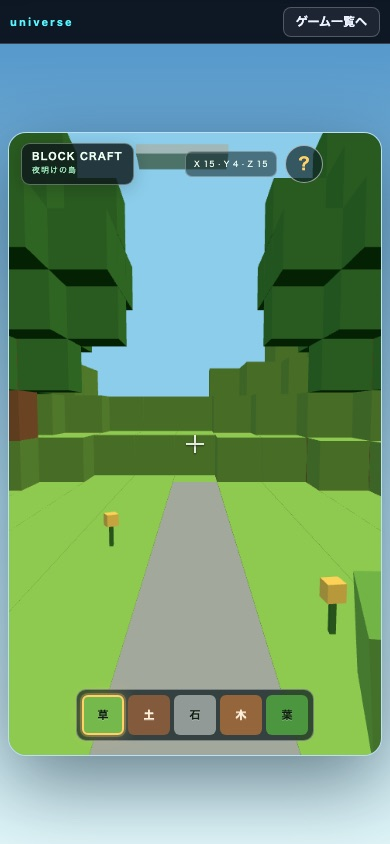
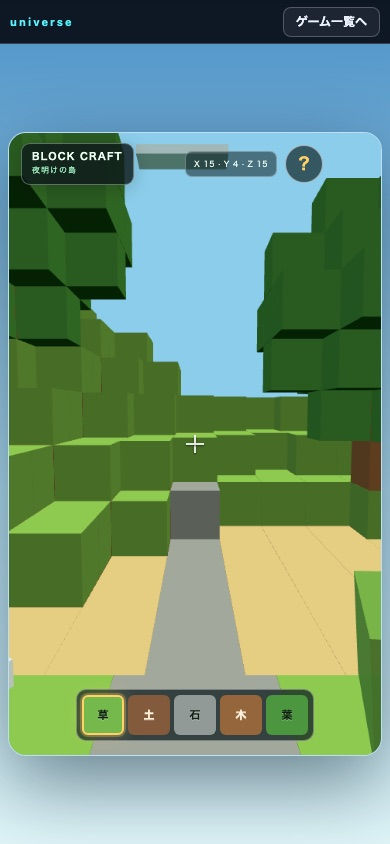
block-craft: 砂浜生成と開始クリックを修正
低地に砂を生成して説明と実装を一致させ、砂の存在をテスト。開始ボタンのクリックがシードとして渡らないよう正規化し、開始処理を次フレームへ遅延。未使用コードを削除し、奈落復帰の説明を実装に合わせた。

Changed region(s): [[0.0, 0.154, 0.9846, 0.8318], [0.0, 0.1848, 0.1231, 0.2464]]

diff --git a/projects/_labs/block-craft/game.js b/projects/_labs/block-craft/game.js
@@ -34,18 +34,10 @@
     }
   }
 
-  function showTitle() {
-    mode = 'title'; game = null;
-    setScreen('screen-title');
-    if (els.hud) els.hud.classList.add('hidden');
-    if (els.crosshair) els.crosshair.classList.add('hidden');
-    if (els.hotbar) els.hotbar.classList.add('hidden');
-    if (worldGroup) clearWorld();
-    invalidateHud();
-  }
-
   function startGame(seed) {
-    game = E.createGame({ seed: seed == null ? 20261104 : seed });
+    seed = Number(seed);
+    if (!isFinite(seed) || seed <= 0) seed = 20261104;
+    game = E.createGame({ seed: seed });
     mode = 'play';
     pointer = null; joy.id = null;
     autoStep = 0;
@@ -71,10 +63,6 @@
 
   function invalidateHud() { lastHud = ''; }
 
-  function slotColor(index) {
-    var info = E.BLOCK_INFO[E.HOTBAR[index]];
-    return '#' + ('000000' + info.color.toString(16)).slice(-6);
-  }
   function syncHud() {
     if (!game) return;
     var st = E.getState(game);
@@ -366,10 +354,9 @@
     els.screenTitle = $('screen-title'); els.screenHelp = $('screen-help');
     els.slots = document.querySelectorAll ? document.querySelectorAll('.slot') : [];
     els.hotbar = $('hotbar'); els.joystick = $('joystick'); els.joyKnob = $('joy-knob');
-    els.sound = null;
     makeRenderer();
     var start = $('btn-start'), help = $('btn-help'), close = $('btn-help-close');
-    if (start) start.addEventListener('click', startGame);
+    if (start) start.addEventListener('click', function () { setTimeout(function () { startGame(); }, 0); });
     if (help) help.addEventListener('click', showHelp);
     if (close) close.addEventListener('click', closeHelp);
     for (var i = 0; i < els.slots.length; i++) {

diff --git a/projects/_labs/block-craft/engine.js b/projects/_labs/block-craft/engine.js
@@ -47,7 +47,8 @@
     for (x = 0; x < SX; x++) {
       for (z = 0; z < SZ; z++) {
         var h = 5 + Math.floor(2.1 * Math.sin(x * 0.34 + seed * 0.07) + 1.7 * Math.cos(z * 0.29) + 1.0 * Math.sin((x + z) * 0.13));
-        h = clamp(h, 3, SY - 5);
+        if (Math.abs(x - 15) <= 2 && Math.abs(z - 15) <= 2) h = Math.max(h, 3);
+        h = clamp(h, 2, SY - 5);
         heights[x + z * SX] = h;
         for (y = 0; y <= h; y++) {
           var type;
@@ -80,7 +81,7 @@
       if (pathTop >= 0 && pathTop < SY - 1) setBlock({ blocks: blocks }, 15, pathTop, z, BLOCKS.STONE);
     }
     var decor = [];
-    var spots = [[12, 12], [16, 12], [11, 14], [19, 13], [14, 10], [18, 10], [10, 10], [20, 16], [13, 16], [17, 15], [9, 15], [21, 14]];
+    var spots = [[12, 12], [16, 12], [11, 14], [19, 13], [14, 10], [18, 10], [10, 10], [20, 16], [13, 16], [17, 15], [9, 15], [21, 14], [13, 14], [17, 14], [14, 13], [16, 13]];
     for (var d = 0; d < spots.length; d++) {
       var dx = spots[d][0], dz = spots[d][1];
       var dy = surfaceY({ blocks: blocks }, dx, dz);

diff --git a/projects/_labs/block-craft/test-engine.js b/projects/_labs/block-craft/test-engine.js
@@ -16,11 +16,15 @@ assert(E.HOTBAR.length === 5, 'hotbar should have five blocks');
 assert(g.position.y > 0 && g.position.y < E.WORLD.y, 'spawn height is invalid');
 assert(E.getBlock(g.world, Math.floor(g.position.x), Math.floor(g.position.y) - 1, Math.floor(g.position.z)) !== 0, 'spawn should be on solid ground');
 
-var found = 0;
+var found = 0, sandCount = 0;
 for (var x = 0; x < E.WORLD.x; x++) for (var z = 0; z < E.WORLD.z; z++) {
   if (E.getBlock(g.world, x, 0, z) === E.BLOCKS.STONE) found++;
+  for (var sy = E.WORLD.y - 1; sy >= 0; sy--) {
+    if (E.getBlock(g.world, x, sy, z) === E.BLOCKS.SAND) { sandCount++; break; }
+  }
 }
 assert(found > 0, 'world should have stone below the surface');
+assert(sandCount > 0, 'world should have at least one sand column');
 
 var sand = 0;
 for (x = 0; x < E.WORLD.x; x++) for (var sy = 0; sy < E.WORLD.y; sy++) for (var sz = 0; sz < E.WORLD.z; sz++) {

diff --git a/projects/_labs/block-craft/test-smoke.js b/projects/_labs/block-craft/test-smoke.js
@@ -5,6 +5,7 @@ function tryLoad(paths) {
   throw new Error('load failed: ' + paths.join(' / '));
 }
 tryLoad(['../../../tools/harness.js', 'tools/harness.js']);
+// サンドボックスには終了条件がないため、Harness.run の代わりに start と autoPlayStep を直接実行する。
 tryLoad(['engine.js', 'projects/_labs/block-craft/engine.js']);
 tryLoad(['game.js', 'projects/_labs/block-craft/game.js']);
 
@@ -16,6 +17,7 @@ G.start();
 var started = G.getState();
 assert(started && started.phase === 'play', 'game did not start');
 assert(started.size && started.size.x === 30, 'world size is missing');
+assert(typeof started.seed === 'number', 'world seed should be numeric');
 for (var i = 0; i < 240; i++) G.autoPlayStep();
 var state = G.getState();
 assert(state.phase === 'play', 'sandbox should stay in play mode');

diff --git a/projects/_labs/block-craft/index.html b/projects/_labs/block-craft/index.html
@@ -48,7 +48,7 @@
             <li>左クリック / <b>掘る</b>ボタンでブロックを壊す</li>
             <li>右クリック / <b>置く</b>ボタンでブロックを設置</li>
             <li><b>1〜5</b>で草・土・石・木・葉を選択</li>
-            <li>落ちても自動でスポーンへ戻る。自由に建築しよう</li>
+            <li>奈落に落ちたときはスポーンへ戻る。自由に建築しよう</li>
           </ul>
           <button id="btn-start" class="primary" type="button">島へ降りる</button>
           <p class="tiny">Rでワールド再生成 / 右上の?で操作確認</p>

diff --git a/projects/_labs/block-craft/README.md b/projects/_labs/block-craft/README.md
@@ -31,7 +31,7 @@ universe のルートで `python3 -m http.server 8000` を実行し、http://loc
 
 - 島のブロックは自由に掘れます
 - 5種類のブロックを好きなだけ設置できます
-- 高い場所から落ちても、島のスポーン地点へ戻ります
+- 地形を掘り抜いて奈落に落ちたときは、島のスポーン地点へ戻ります
 - 水や敵はいません。建築と探索を楽しむクリエイティブモードです
 
 ## 見た目
